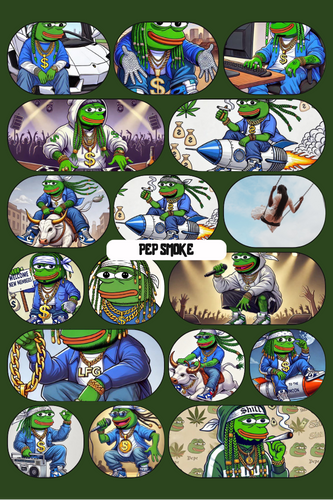
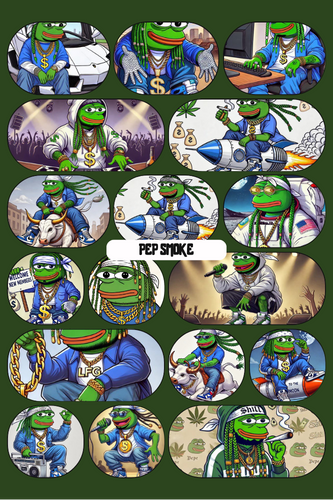
collage 4 image changed and about us 3 team members part removed

Changed region(s): [[0.6607, 0.33, 0.991, 0.51]]

diff --git a/src/components/AboutUs.jsx b/src/components/AboutUs.jsx
@@ -51,12 +51,12 @@ function AboutUs() {
                   </h4>
                 </div>
                 <div className="token-inner">
-                  We are a small but dedicated team of three, united by our
-                  passion for music and our commitment to building a safe and
-                  inclusive community. Having faced numerous challenges and
-                  setbacks ourselves, we understand the importance of trust and
-                  security. Our mission is to create a space where everyone
-                  feels safe to express themselves and grow together.
+                  We are a small but dedicated team, united by our passion for
+                  music and our commitment to building a safe and inclusive
+                  community. Having faced numerous challenges and setbacks
+                  ourselves, we understand the importance of trust and security.
+                  Our mission is to create a space where everyone feels safe to
+                  express themselves and grow together.
                 </div>
               </div>
             </div>
